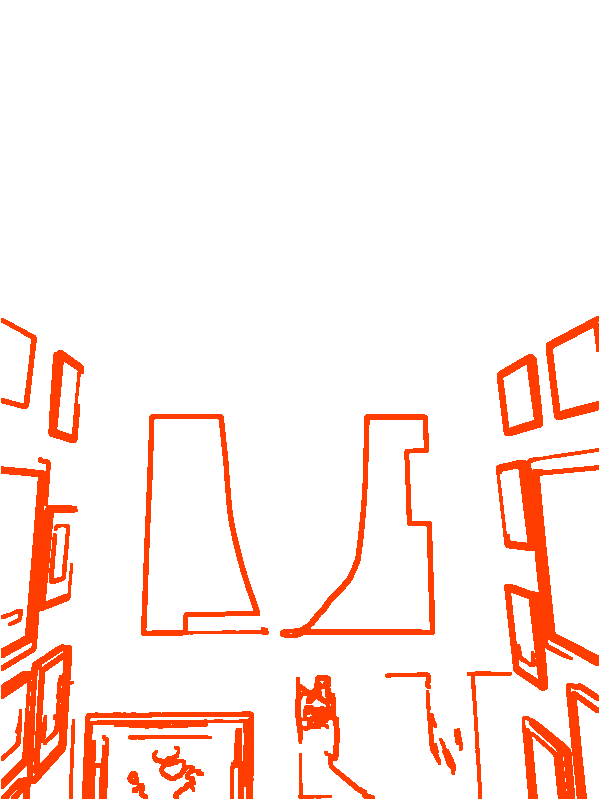
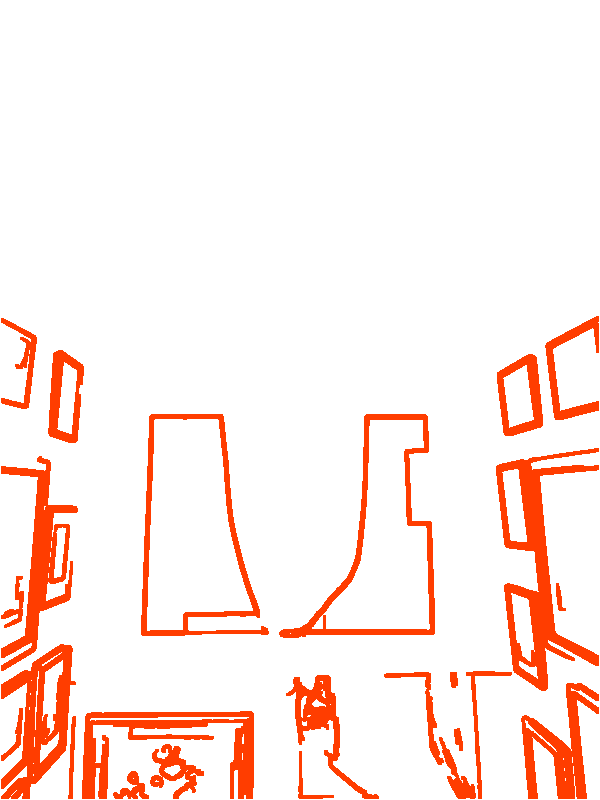
After the first walk: lower lines, wider scales, a halo, more of the scene
The pass lines are 0.30, 0.25 and 0.20 with the same holds, each 0.05
under the handoff's, and the bar's full width is the 0.30 line. The
scale search is five scales from 0.85 to 1.15, 45 evaluations, since
photographs from the camera app lean on it. The stencil on the camera
screen carries a dark halo so its lines read on a bright wall; display
only, the scorer reads the PNG. The stencil tool keeps 0.066 of the
frame by default, a tenth more of the scene's edges, so a stencil says
more about where to stand.

Snowman House is re-cut with the new default and loses the basket and
the cellar, which could not be matched in the house: the basket's lines
were mostly the laundry on its lid, and the cellar was dim and cluttered
from a doorway. Seven stencils until they are re-shot.

The capture page's shutter is never greyed: a tap with no hunt typed
flashes red and says so, and a good shot flashes green for a little
longer.

Claude-Session: https://claude.ai/code/session_0129ZGGXrko81CZoRzPKhrL1

diff --git a/tests/passrule.spec.js b/tests/passrule.spec.js
@@ -1,5 +1,5 @@
 // The three timers, on passRule with made-up sequences at 250 ms steps, the
-// first evaluation at 0 ms.
+// first evaluation at 0 ms. The lines are 0.30, 0.25 and 0.20.
 const { test, expect } = require("@playwright/test");
 const { prepare, withName, stubBoard } = require("./helpers");
 
@@ -25,33 +25,33 @@ test.describe("the pass rule", () => {
     await expect(page.locator("#s-main")).toBeVisible();
   });
 
-  test("0.36 passes on the fourth evaluation (750 ms) and not the third", async ({ page }) => {
-    expect(await firstPass(page, 0.36, 20)).toBe(3);
+  test("0.31 passes on the fourth evaluation (750 ms) and not the third", async ({ page }) => {
+    expect(await firstPass(page, 0.31, 20)).toBe(3);
   });
-  test("0.31 passes on the fifth evaluation (1000 ms) and not the fourth", async ({ page }) => {
-    expect(await firstPass(page, 0.31, 20)).toBe(4);
+  test("0.26 passes on the fifth evaluation (1000 ms) and not the fourth", async ({ page }) => {
+    expect(await firstPass(page, 0.26, 20)).toBe(4);
   });
-  test("0.26 passes on the ninth evaluation (2000 ms) and not the eighth", async ({ page }) => {
-    expect(await firstPass(page, 0.26, 20)).toBe(8);
+  test("0.21 passes on the ninth evaluation (2000 ms) and not the eighth", async ({ page }) => {
+    expect(await firstPass(page, 0.21, 20)).toBe(8);
   });
-  test("0.24 never passes", async ({ page }) => {
-    expect(await firstPass(page, 0.24, 400)).toBe(-1);
+  test("0.19 never passes", async ({ page }) => {
+    expect(await firstPass(page, 0.19, 400)).toBe(-1);
   });
   test("a single dip below a line resets that line's timer and no other", async ({ page }) => {
     const out = await page.evaluate(() => {
-      const seq = [0.36, 0.36, 0.31, 0.36, 0.36];
+      const seq = [0.31, 0.31, 0.26, 0.31, 0.31];
       let st = null;
       const trace = [];
       seq.forEach((s, i) => { st = window.Lens.passRule(st, s, i * 250); trace.push({ since: st.since.slice(), passed: st.passed }); });
       return trace;
     });
-    // At 500 ms the score dipped under 0.35: that timer is cleared, the
-    // 0.30 and 0.25 timers keep their start at 0.
+    // At 500 ms the score dipped under 0.30: that timer is cleared, the
+    // 0.25 and 0.20 timers keep their start at 0.
     expect(out[1]).toEqual({ since: [0, 0, 0], passed: false });
     expect(out[2]).toEqual({ since: [null, 0, 0], passed: false });
     expect(out[3]).toEqual({ since: [750, 0, 0], passed: false });
-    // At 1000 ms the 0.30 line has held for a second, so it passes, while
-    // the restarted 0.35 timer has only 250 ms on it.
+    // At 1000 ms the 0.25 line has held for a second, so it passes, while
+    // the restarted 0.30 timer has only 250 ms on it.
     expect(out[4]).toEqual({ since: [750, 0, 0], passed: true });
   });
   test("is pure: the state handed in is not changed", async ({ page }) => {

diff --git a/app/lens.js b/app/lens.js
@@ -25,14 +25,17 @@
   const MATCH_EVERY_MS = 250;
   const MATCH_ALPHA = 0.3;          // exponential smoothing of the score
   const MATCH_SHIFTS = [-5, 0, 5];  // working-resolution pixels
-  const MATCH_SCALES = [0.9, 1, 1.1];
+  // Five scales, ±15%: photographs taken with the camera app rather than the
+  // capture page lean on this, and the first hunt showed ±10% was tight.
+  const MATCH_SCALES = [0.85, 0.925, 1, 1.075, 1.15];
   const WORK_PX = 320;              // longest side of the working frame
   const WORK_PX_SLOW = 240;         // and where it drops to if a phone cannot keep up
   const SLOW_MS = 10;
   // The pass rule (section 7 of the handoff): a score held at a line for long
   // enough, on consecutive evaluations. Three lines, each with its own timer.
-  const PASS_LINES = [[0.35, 600], [0.30, 1000], [0.25, 2000]];
-  const BAR_FULL = 0.35;            // the score at which the bar is all the way across
+  // Each line is 0.05 under the handoff's, after the first hunt was walked.
+  const PASS_LINES = [[0.30, 600], [0.25, 1000], [0.20, 2000]];
+  const BAR_FULL = 0.30;            // the score at which the bar is all the way across
   const COMPLETE_MS = 1500;         // how long Complete! stays before the screen closes itself
 
   let root = null;        // the full-screen container, built once and reused
@@ -66,8 +69,11 @@
     #lens.on { display: block; }
     #lensfeed { position: absolute; inset: 0; width: 100%; height: 100%;
                 object-fit: contain; background: #000; }
+    /* A dark halo round the lines, so they read on a bright wall as well as
+       a dark one. Display only: the scorer reads the PNG, not the screen. */
     #lensstencil { position: absolute; left: 0; top: 0; display: block;
-                   pointer-events: none; }
+                   pointer-events: none;
+                   filter: drop-shadow(0 0 1.5px rgba(0,0,0,.95)) drop-shadow(0 0 1px rgba(0,0,0,.7)); }
     /* The bar at the very top, the full width. Green, always. */
     #matchbar { position: absolute; left: 0; right: 0; top: env(safe-area-inset-top, 0px);
                 height: 8px; background: rgba(255,255,255,.18); z-index: 3; }
@@ -559,8 +565,8 @@
     return cnt ? sum / cnt : 0;
   }
 
-  // The bar's fill is the smoothed score against the 0.35 line: the full
-  // width is a pass on that line, and a pass that comes from the 0.30 or 0.25
+  // The bar's fill is the smoothed score against the top line: the full
+  // width is a pass on that line, and a pass that comes from a lower line's
   // timer is seen with the bar part of the way across. No numbers.
   function paintBar() {
     if (!root) return;

diff --git a/app/capture.html b/app/capture.html
@@ -106,7 +106,7 @@
   </div>
   <div id="stage"><video id="feed" autoplay playsinline muted></video></div>
   <div class="controls">
-    <button id="shutter" type="button" aria-label="Shutter" disabled></button>
+    <button id="shutter" type="button" aria-label="Shutter"></button>
     <div id="count">0</div>
   </div>
 </div>
@@ -219,7 +219,7 @@ function flash(ok, msg) {
     // The words go once the fade has finished, so a message that has faded is
     // not on the page any more.
     flash._t = setTimeout(() => { f.textContent = ""; }, 500);
-  }, ok ? 350 : 3000);
+  }, ok ? 600 : 3000);
 }
 
 /* ---- the shot ----
@@ -304,12 +304,16 @@ function download(slug, blob) {
 
 let busy = false;        // a shot in flight; the shutter is off until it lands
 let shots = 0;
+// The shutter stays live with the hunt box empty, so a tap on it can say
+// what is missing rather than do nothing: a greyed button on a phone in the
+// field reads as broken.
 function refresh() {
-  $("shutter").disabled = busy || !cleanSlug($("hunt").value);
+  $("shutter").disabled = busy;
 }
 async function shoot() {
   const slug = cleanSlug($("hunt").value);
-  if (busy || !slug) return;
+  if (busy) return;
+  if (!slug) { flash(false, "Type the hunt's name in the box first."); return; }
   busy = true;
   refresh();
   try {

diff --git a/tests/camera.spec.js b/tests/camera.spec.js
@@ -112,15 +112,15 @@ test.describe("the camera screen", () => {
     expect(after).toEqual(before);
   });
 
-  test("the bar: 0.175 fills half the width, 0.35 and above fills all of it", async ({ page }) => {
+  test("the bar: 0.15 fills half the width, 0.30 and above fills all of it", async ({ page }) => {
     await page.goto("fixture/");
     await openTile(page, withClue.id);
-    await page.evaluate(() => window.Lens.fakeScore(0.175));
+    await page.evaluate(() => window.Lens.fakeScore(0.15));
     await expect(page.locator("#matchfill")).toHaveAttribute("style", /width: 50%/);
     const bar = await page.locator("#matchbar").boundingBox();
     // The fill eases over 200 ms; wait for it to land.
     await expect.poll(async () => (await page.locator("#matchfill").boundingBox()).width).toBeCloseTo(bar.width / 2, 0);
-    await page.evaluate(() => window.Lens.fakeScore(0.35));
+    await page.evaluate(() => window.Lens.fakeScore(0.30));
     await expect(page.locator("#matchfill")).toHaveAttribute("style", /width: 100%/);
     await page.evaluate(() => window.Lens.fakeScore(0.9));
     await expect(page.locator("#matchfill")).toHaveAttribute("style", /width: 100%/);

diff --git a/tests/capture.spec.js b/tests/capture.spec.js
@@ -39,13 +39,17 @@ test.describe("the capture page", () => {
     await expect(slug).toBeVisible();
     await expect(clue).toBeVisible();
     const shutter = page.locator("#shutter");
-    await expect(shutter).toBeDisabled();
+    await expect(shutter).toBeEnabled();
     await expect(page.locator("#count")).toHaveText("0");
+    // A tap with no hunt typed says so, in the red flash, and takes nothing.
+    await shutter.click();
+    await expect(page.locator("#flash")).toContainText("hunt");
+    await expect(page.locator("#count")).toHaveText("0");
+    await page.waitForTimeout(3600);
     // No words but the placeholders.
     const words = await page.evaluate(() => document.body.innerText.replace(/\s+/g, " ").trim());
     expect(words.replace(/Treasure\s*Hunt/i, "").replace("0", "").trim()).toBe("");
     await slug.fill("Trafalgar");
-    await expect(shutter).toBeEnabled();
     await clue.fill("Between the fountains, looking north.");
     await page.waitForFunction(() => { const v = document.querySelector("video"); return v && v.videoWidth > 0; });
     await shutter.click();

diff --git a/pipeline/stencil.py b/pipeline/stencil.py
@@ -2,7 +2,7 @@
 """Cut a stencil from a photograph.
 
     python3 pipeline/stencil.py photos/<slug>/*.jpg \\
-        --keep 0.06 --speck 60 --long 800 --out app/img/<slug>
+        --keep 0.066 --speck 60 --long 800 --out app/img/<slug>
 
 Not part of the build, and the one thing in pipeline/ that needs an install:
 Pillow, to read the photograph and write the PNG. No numpy. The build only
@@ -253,8 +253,11 @@ def main(argv=None):
     ap = argparse.ArgumentParser(
         description="Cut stencils from photographs for a treasure hunt.")
     ap.add_argument("photos", nargs="+", type=Path, help="the photographs")
-    ap.add_argument("--keep", type=float, default=0.06,
-                    help="fraction of the frame's interior to keep (default 0.06)")
+    # 0.066 rather than the handoff's 0.06: a tenth more of the scene's edges,
+    # after the first hunt showed the stencils needed more of their surroundings
+    # to say where to stand.
+    ap.add_argument("--keep", type=float, default=0.066,
+                    help="fraction of the frame's interior to keep (default 0.066)")
     ap.add_argument("--speck", type=int, default=60,
                     help="drop blobs with fewer pixels than this (default 60)")
     ap.add_argument("--long", type=int, default=800,

diff --git a/README.md b/README.md
@@ -62,7 +62,7 @@ the Supabase connector:
 Download each `path` from the bucket's public URL to `photos/<slug>/<id>.jpg`,
 take the clue and, where the accuracy is at most 75 m, the position. Then:
 
-    python3 pipeline/stencil.py photos/<slug>/*.jpg --keep 0.06 --speck 60 --long 800 --out app/img/<slug>
+    python3 pipeline/stencil.py photos/<slug>/*.jpg --keep 0.066 --speck 60 --long 800 --out app/img/<slug>
 
 Look at every `*-stencil-preview.jpg`. A photo with too much texture
 (foliage, gravel, brick) gives a stencil that is noise: raise `--speck`,
@@ -118,15 +118,18 @@ zero border made the Sobel see a bright line all the way round the frame,
 in every stencil and in every live frame alike, and a line that is always
 there is a match for free: with the stencil filling the rectangle, a blank
 wall passed. `stencil.py` computes the same blur, so a stencil is still
-exactly the edges the camera will see. The search is wider, ±5 px and ±10%,
-still 27 evaluations.
+exactly the edges the camera will see. The search is wider, ±5 px and five
+scales from 0.85 to 1.15, 45 evaluations, because photographs from the
+camera app lean on the scale search and the first hunt showed ±10% was
+tight.
 
 ## The pass rule
 
 The smoothed score is evaluated every 250 ms. The stencil passes when any
-one of these has held, continuously, on consecutive evaluations: 0.35 for
-0.6 s, 0.30 for 1.0 s, or 0.25 for 2.0 s. Each line keeps its own timer. The
-bar at the top is the smoothed score against the 0.35 line, so a pass that
+one of these has held, continuously, on consecutive evaluations: 0.30 for
+0.6 s, 0.25 for 1.0 s, or 0.20 for 2.0 s (each 0.05 under the handoff's
+lines, after the first hunt was walked). Each line keeps its own timer. The
+bar at the top is the smoothed score against the 0.30 line, so a pass that
 comes from a lower line is seen with the bar part of the way across. There
 is nothing to press to complete a stencil.
 
